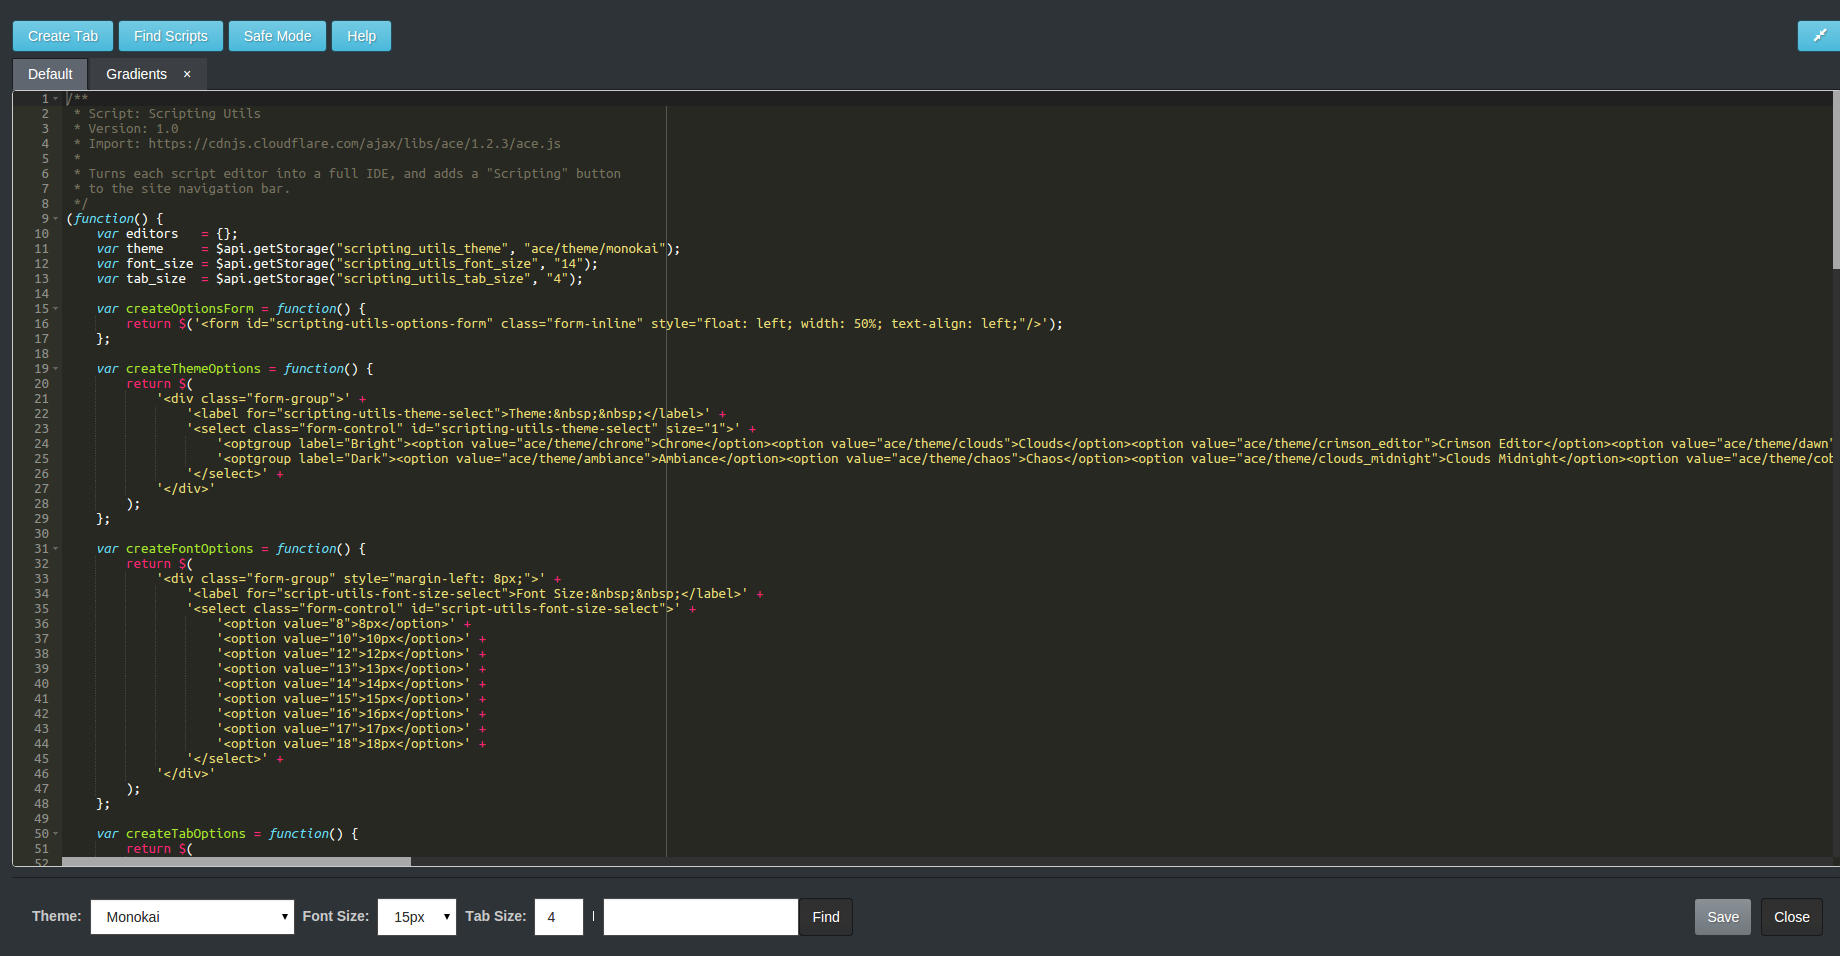
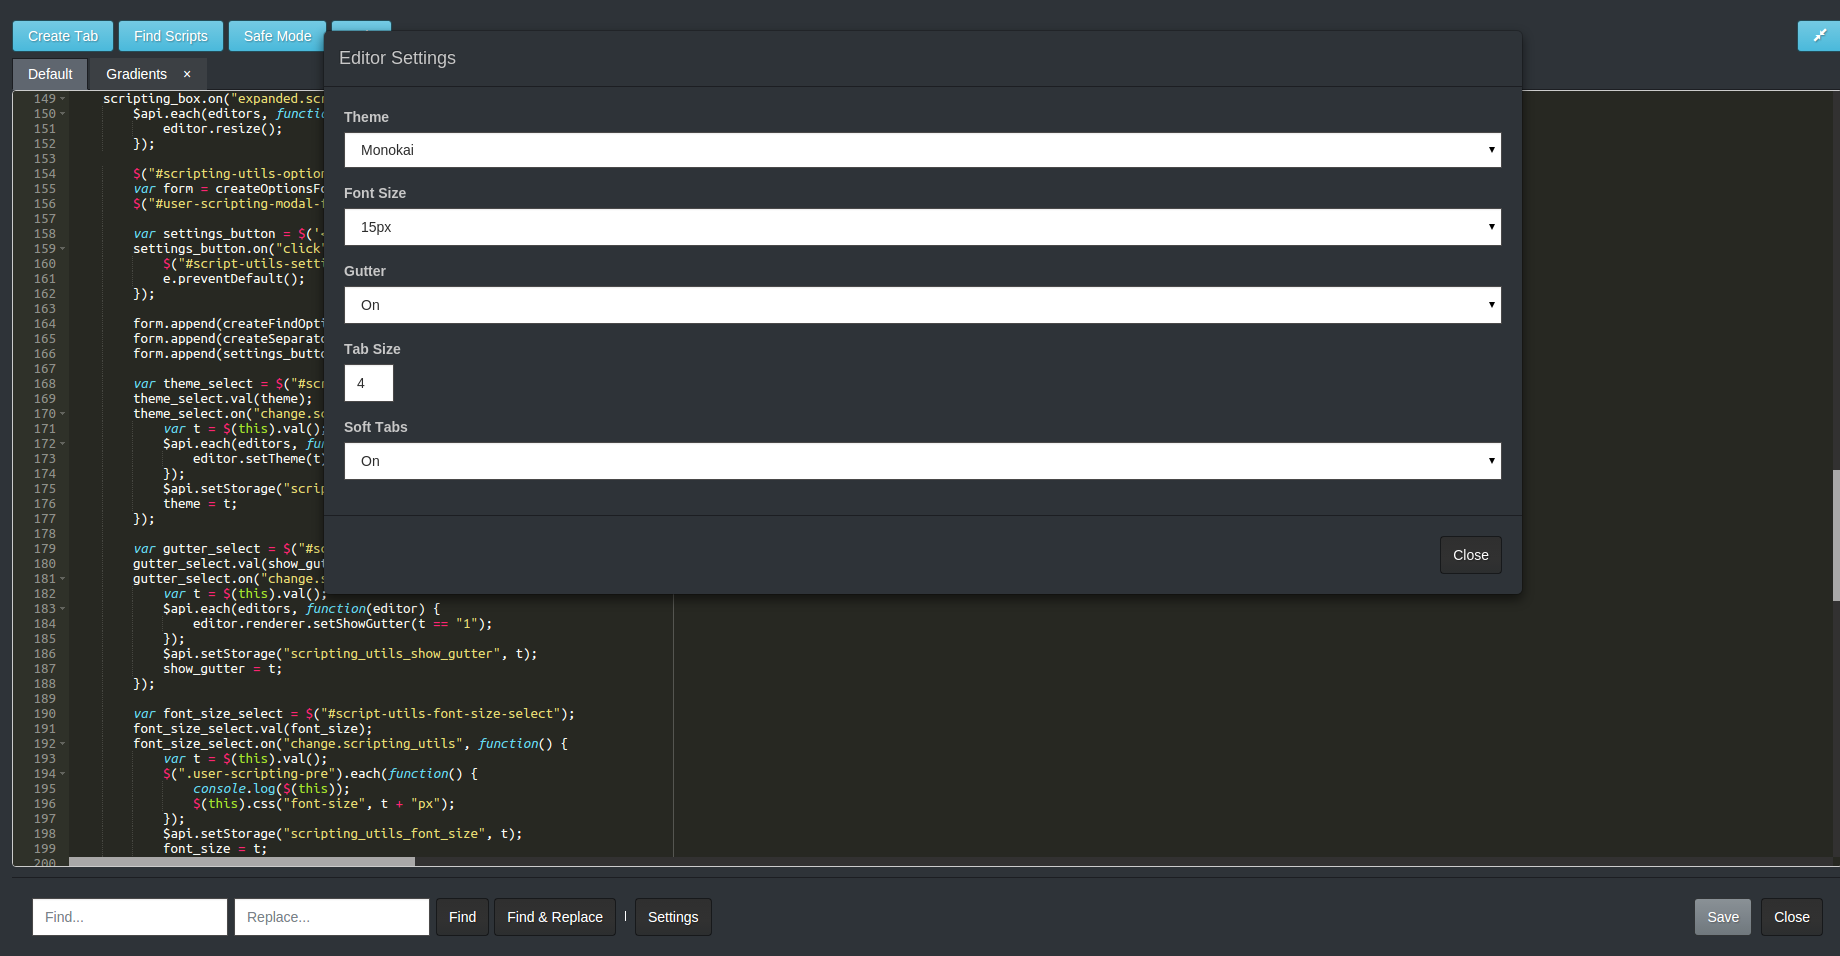
Scripting update

diff --git a/scripting.js b/scripting.js
@@ -7,31 +7,53 @@
  * to the site navigation bar.
  */
 (function() {
-    var editors   = {};
-    var theme     = $api.getStorage("scripting_utils_theme", "ace/theme/monokai");
-    var font_size = $api.getStorage("scripting_utils_font_size", "14");
-    var tab_size  = $api.getStorage("scripting_utils_tab_size", "4");
+    var editors     = {};
+    var theme       = $api.getStorage("scripting_utils_theme", "ace/theme/monokai");
+    var font_size   = $api.getStorage("scripting_utils_font_size", "14");
+    var tab_size    = $api.getStorage("scripting_utils_tab_size", "4");
+    var soft_tabs   = $api.getStorage("scripting_utils_soft_tabs", "1");
+    var show_gutter = $api.getStorage("scripting_utils_show_gutter", "1");
+    
+    var createSettingsModal = function() {
+        return $(
+            '<div id="script-utils-settings-modal" class="modal fade" style="z-index: 3000;" role="dialog">' +
+                '<div class="modal-dialog">' +
+                    '<div class="modal-content">' +
+                        '<div class="modal-header">' +
+                            '<h4 class="modal-title">Editor Settings</h4>' +
+                        '</div>' +
+                        '<div class="modal-body">' +
+                            createThemeOptions() +
+                            createFontOptions() +
+                            createGutterOptions() +
+                            createTabOptions() +
+                        '</div>' +
+                        '<div class="modal-footer">' +
+                            '<button type="button" class="btn btn-default" data-dismiss="modal">Close</button>' +
+                        '</div>' +
+                    '</div>' +
+                '</div>' +
+            '</div>'
+        );
+    };
     
     var createOptionsForm = function() {
         return $('<form id="scripting-utils-options-form" class="form-inline" style="float: left; width: 50%; text-align: left;"/>');
     };
     
     var createThemeOptions = function() {
-        return $(
-            '<div class="form-group">' +
-                '<label for="scripting-utils-theme-select">Theme:&nbsp;&nbsp;</label>' +
+        return '<div class="form-group">' +
+                '<label for="scripting-utils-theme-select">Theme</label>' +
                 '<select class="form-control" id="scripting-utils-theme-select" size="1">' +
                     '<optgroup label="Bright"><option value="ace/theme/chrome">Chrome</option><option value="ace/theme/clouds">Clouds</option><option value="ace/theme/crimson_editor">Crimson Editor</option><option value="ace/theme/dawn">Dawn</option><option value="ace/theme/dreamweaver">Dreamweaver</option><option value="ace/theme/eclipse">Eclipse</option><option value="ace/theme/github">GitHub</option><option value="ace/theme/iplastic">IPlastic</option><option value="ace/theme/solarized_light">Solarized Light</option><option value="ace/theme/textmate">TextMate</option><option value="ace/theme/tomorrow">Tomorrow</option><option value="ace/theme/xcode">XCode</option><option value="ace/theme/kuroir">Kuroir</option><option value="ace/theme/katzenmilch">KatzenMilch</option><option value="ace/theme/sqlserver">SQL Server</option></optgroup>' +
                     '<optgroup label="Dark"><option value="ace/theme/ambiance">Ambiance</option><option value="ace/theme/chaos">Chaos</option><option value="ace/theme/clouds_midnight">Clouds Midnight</option><option value="ace/theme/cobalt">Cobalt</option><option value="ace/theme/idle_fingers">idle Fingers</option><option value="ace/theme/kr_theme">krTheme</option><option value="ace/theme/merbivore">Merbivore</option><option value="ace/theme/merbivore_soft">Merbivore Soft</option><option value="ace/theme/mono_industrial">Mono Industrial</option><option value="ace/theme/monokai">Monokai</option><option value="ace/theme/pastel_on_dark">Pastel on dark</option><option value="ace/theme/solarized_dark">Solarized Dark</option><option value="ace/theme/terminal">Terminal</option><option value="ace/theme/tomorrow_night">Tomorrow Night</option><option value="ace/theme/tomorrow_night_blue">Tomorrow Night Blue</option><option value="ace/theme/tomorrow_night_bright">Tomorrow Night Bright</option><option value="ace/theme/tomorrow_night_eighties">Tomorrow Night 80s</option><option value="ace/theme/twilight">Twilight</option><option value="ace/theme/vibrant_ink">Vibrant Ink</option></optgroup>' +
                 '</select>' +
-            '</div>'
-        );
+            '</div>';
     };
     
     var createFontOptions = function() {
-        return $(
-            '<div class="form-group" style="margin-left: 8px;">' +
-                '<label for="script-utils-font-size-select">Font Size:&nbsp;&nbsp;</label>' +
+        return '<div class="form-group">' +
+                '<label for="script-utils-font-size-select">Font Size</label>' +
                 '<select class="form-control" id="script-utils-font-size-select">' +
                     '<option value="8">8px</option>' +
                     '<option value="10">10px</option>' +
@@ -43,24 +65,40 @@
                     '<option value="17">17px</option>' +
                     '<option value="18">18px</option>' +
                 '</select>' +
-            '</div>'
-        );
+            '</div>';
     };
     
     var createTabOptions = function() {
-        return $(
-            '<div class="form-group" style="margin-left: 8px;">' +
-                '<label for="script-utils-tab-size-input">Tab Size:&nbsp;&nbsp;</label>' +
+        return '<div class="form-group">' +
+                '<label for="script-utils-tab-size-input">Tab Size</label>' +
                 '<input type="text" class="form-control" id="script-utils-tab-size-input" style="width: 50px">' +
+                '</div>' +
+                '<div class="form-group">' +
+                '<label for="script-utils-soft-tabs-select">Soft Tabs</label>' +
+                '<select class="form-control" id="script-utils-soft-tabs-select">' +
+                    '<option value="0">Off</option>' +
+                    '<option value="1">On</option>' +
+                '</select>' +
             '</div>'
-        );
+    };
+    
+    var createGutterOptions = function() {
+        return '<div class="form-group">' +
+                '<label for="script-utils-gutter-select">Gutter</label>' +
+                '<select class="form-control" id="script-utils-gutter-select">' +
+                    '<option value="0">Off</option>' +
+                    '<option value="1">On</option>' +
+                '</select>' +
+            '</div>';
     };
     
     var createFindOptions = function() {
         return $(
             '<div class="form-group">' +
-                '<input type="text" class="form-control" id="script-utils-find-input">' +
-                '<button class="btn btn-default" id="script-utils-find-button">Find</button>' +
+                '<input type="text" class="form-control" id="script-utils-find-input" placeholder="Find...">' +
+                '<input type="text" class="form-control" id="script-utils-replace-input" style="margin-left: 6px;" placeholder="Replace...">' +
+                '<button class="btn btn-default" id="script-utils-find-button" style="margin-left: 6px;">Find</button>' +
+                '<button class="btn btn-default" id="script-utils-replace-button">Find &amp; Replace</button>' +
             '</div>'
         );
     };
@@ -76,6 +114,16 @@
             var name = $(pre).data("name");
             if (editors[name] != undefined) {
                 editors[name].find(needle);
+            }
+        });
+    };
+    
+    var replaceInActiveEditor = function(needle, replacement) {
+        $(".user-scripting-pre").each(function(i, pre) {
+            var name = $(pre).data("name");
+            if (editors[name] != undefined) {
+                editors[name].find(needle);
+                editors[name].replace(replacement);
             }
         });
     };
@@ -104,19 +152,18 @@
         });
     
         $("#scripting-utils-options-form").remove();
-        $("#scripting-utils-theme-select").off("change.scripting_utils");
-        $("#script-utils-font-size-select").off("change.scripting_utils");
-        $("#script-utils-tab-size-input").off("change.scripting_utils");
-        $("#script-utils-find-input").off("keyup.scripting_utils");
-        $("#script-utils-find-button").off("click.scripting_utils");
-        
         var form = createOptionsForm();
-        form.append(createThemeOptions());
-        form.append(createFontOptions());
-        form.append(createTabOptions());
-        form.append(createSeparator());
-        form.append(createFindOptions());
         $("#user-scripting-modal-footer").prepend(form);
+        
+        var settings_button = $('<button class="btn btn-default" id="script-utils-settings-button">Settings</button>');
+        settings_button.on("click", function(e) {
+            $("#script-utils-settings-modal").modal("show");
+            e.preventDefault();
+        });
+        
+        form.append(createFindOptions());
+        form.append(createSeparator());
+        form.append(settings_button);
         
         var theme_select = $("#scripting-utils-theme-select");
         theme_select.val(theme);
@@ -127,6 +174,17 @@
             });
             $api.setStorage("scripting_utils_theme", t);
             theme = t;
+        });
+        
+        var gutter_select = $("#script-utils-gutter-select");
+        gutter_select.val(show_gutter);
+        gutter_select.on("change.scripting_utils", function() {
+            var t = $(this).val();
+            $api.each(editors, function(editor) {
+                editor.renderer.setShowGutter(t == "1");
+            });
+            $api.setStorage("scripting_utils_show_gutter", t);
+            show_gutter = t;
         });
         
         var font_size_select = $("#script-utils-font-size-select");
@@ -152,6 +210,17 @@
             tab_size = t;
         });
         
+        var soft_tabs_select = $("#script-utils-soft-tabs-select");
+        soft_tabs_select.val(soft_tabs);
+        soft_tabs_select.on("change.scripting_utils", function() {
+            var t = $(this).val();
+            $api.each(editors, function(editor) {
+                editor.getSession().setUseSoftTabs(t == "1");
+            });
+            $api.setStorage("scripting_utils_soft_tabs", t);
+            soft_tabs = t;
+        });
+        
         var find_input = $("#script-utils-find-input");
         find_input.on("keyup.scripting_utils", function(e) {
             if (e.keyCode == 13) {
@@ -164,7 +233,17 @@
             findInActiveEditor(find_input.val());
             e.preventDefault();
         });
+    
+        var replace_input  = $("#script-utils-replace-input");
+        var replace_button = $("#script-utils-replace-button");
+        replace_button.on("click.scripting_utils", function(e) {
+            replaceInActiveEditor(find_input.val(), replace_input.val());
+            e.preventDefault();
+        });
     });
+    
+    $("#script-utils-settings-modal").remove();
+    $("#mainpage").append(createSettingsModal());
     
     scripting_box.on("shrunk.scripting", function() {
         $api.each(editors, function(editor) {
